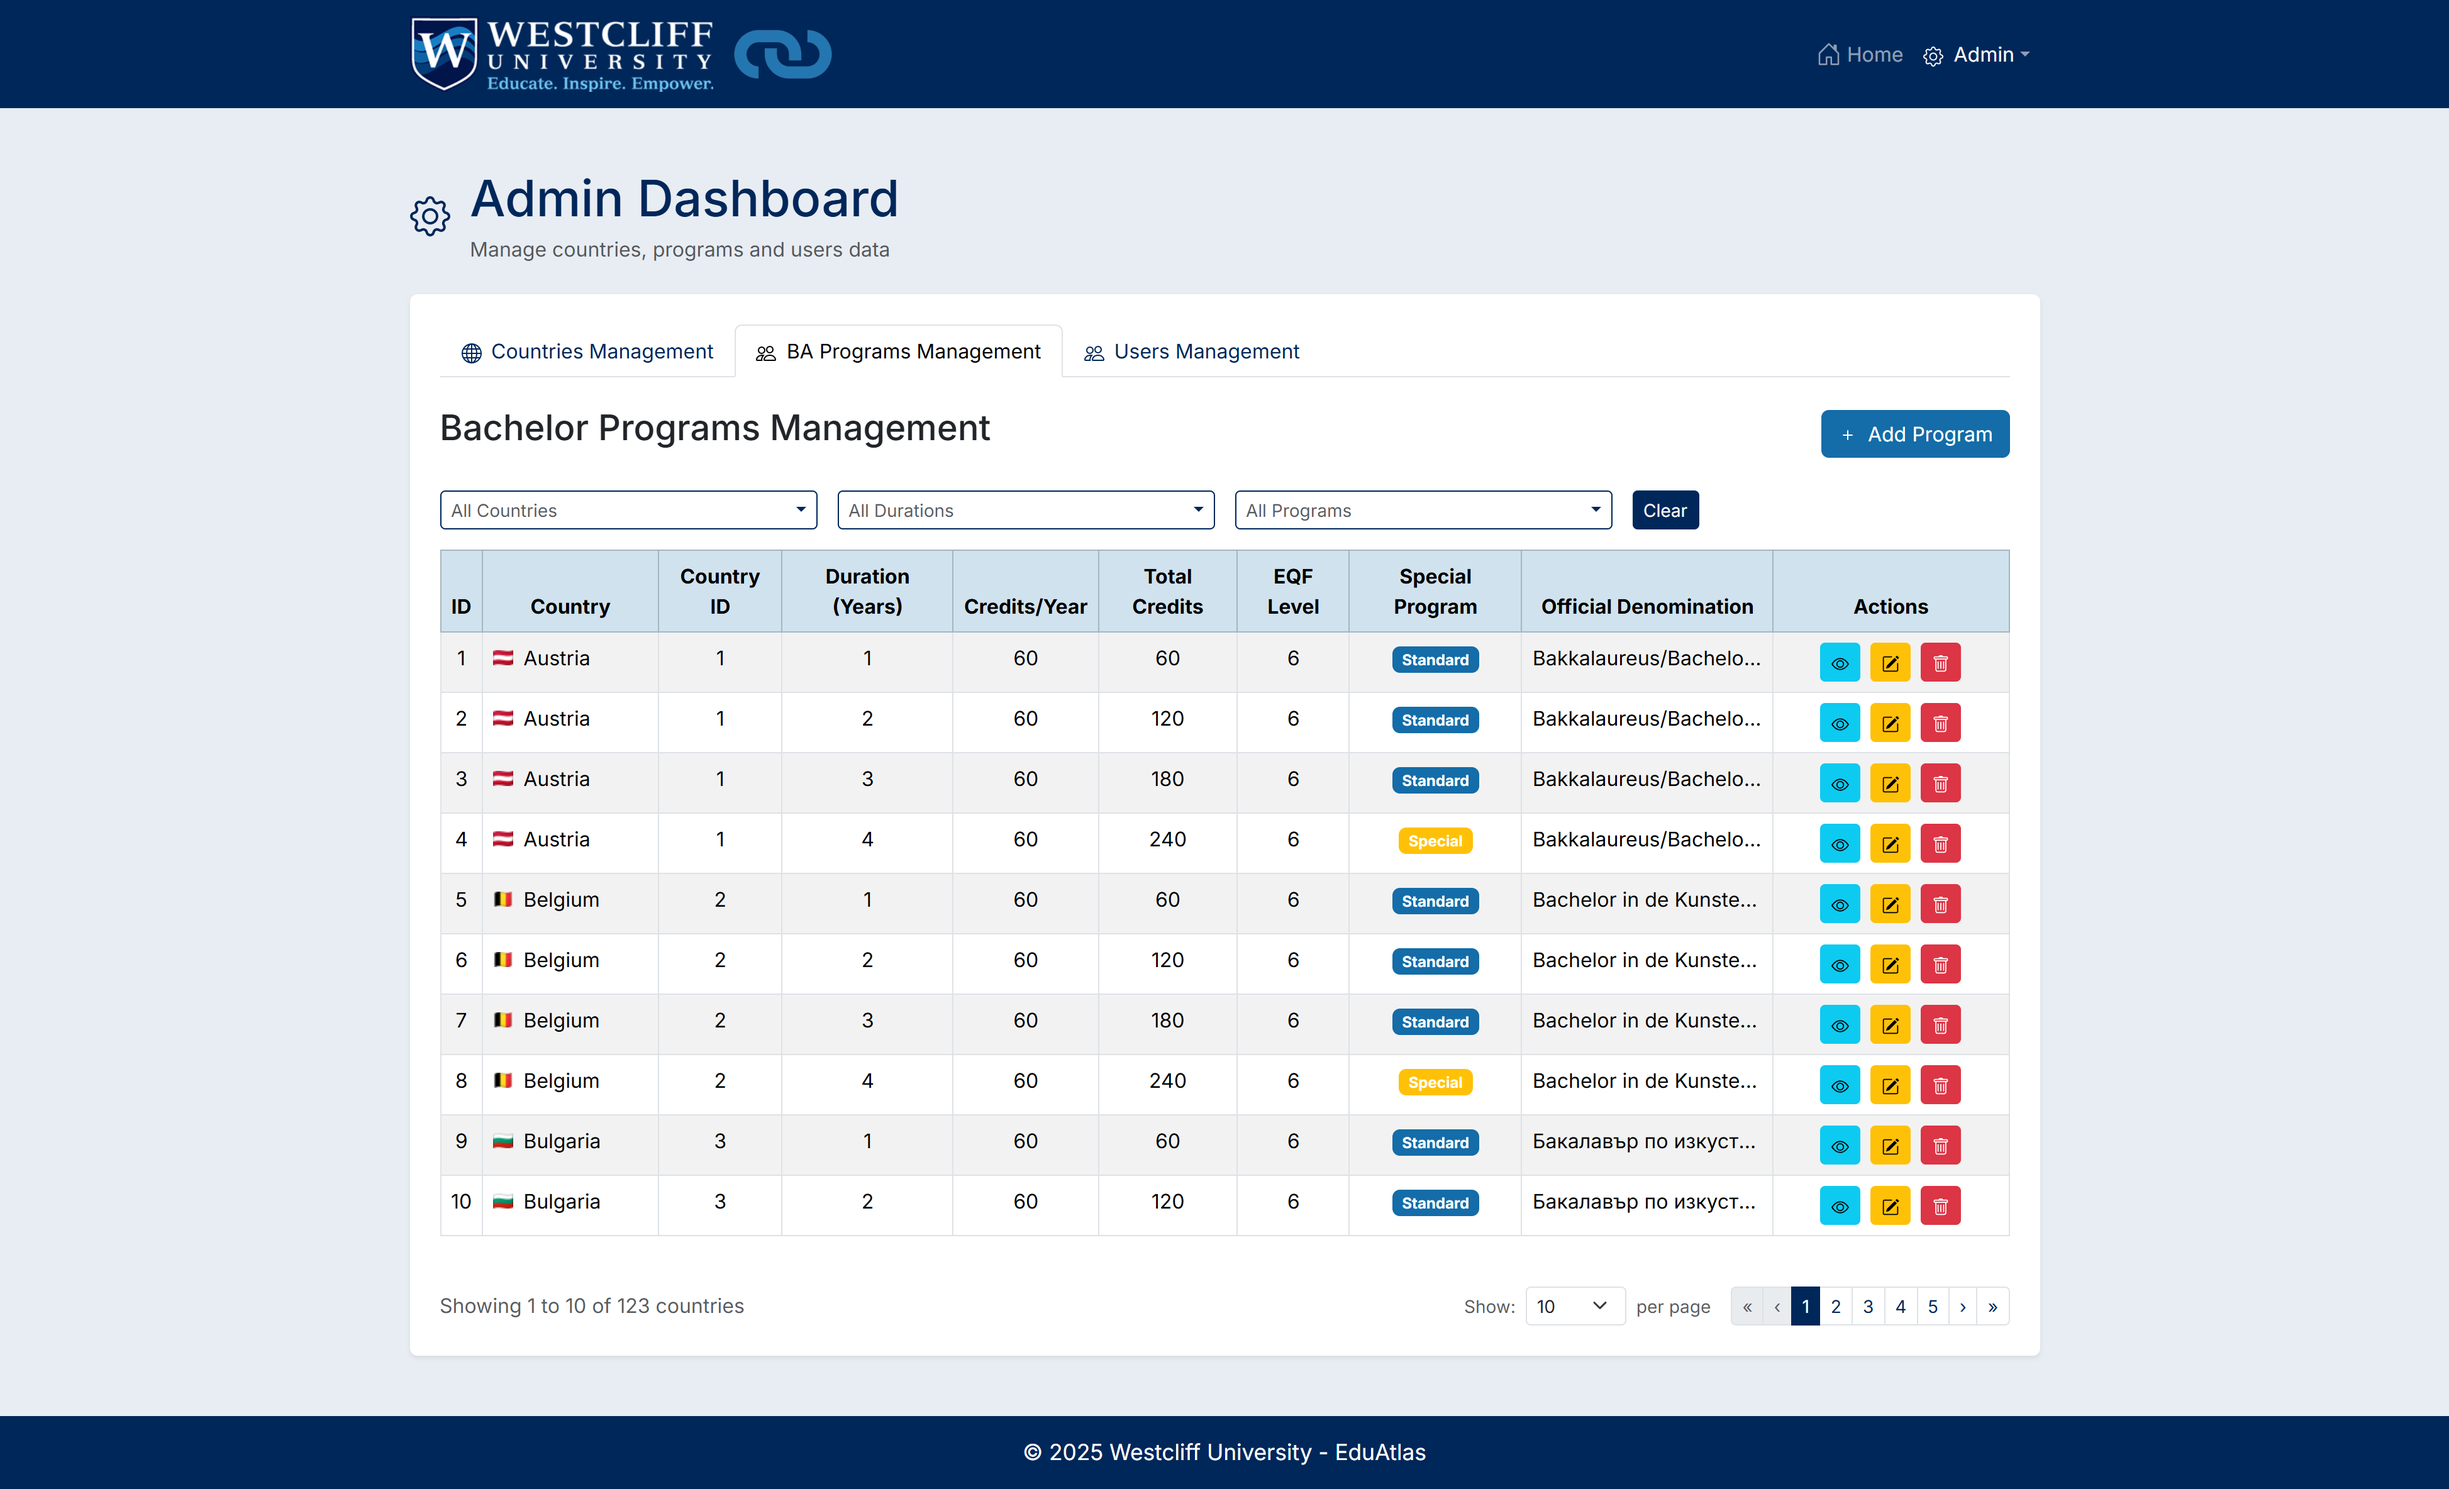
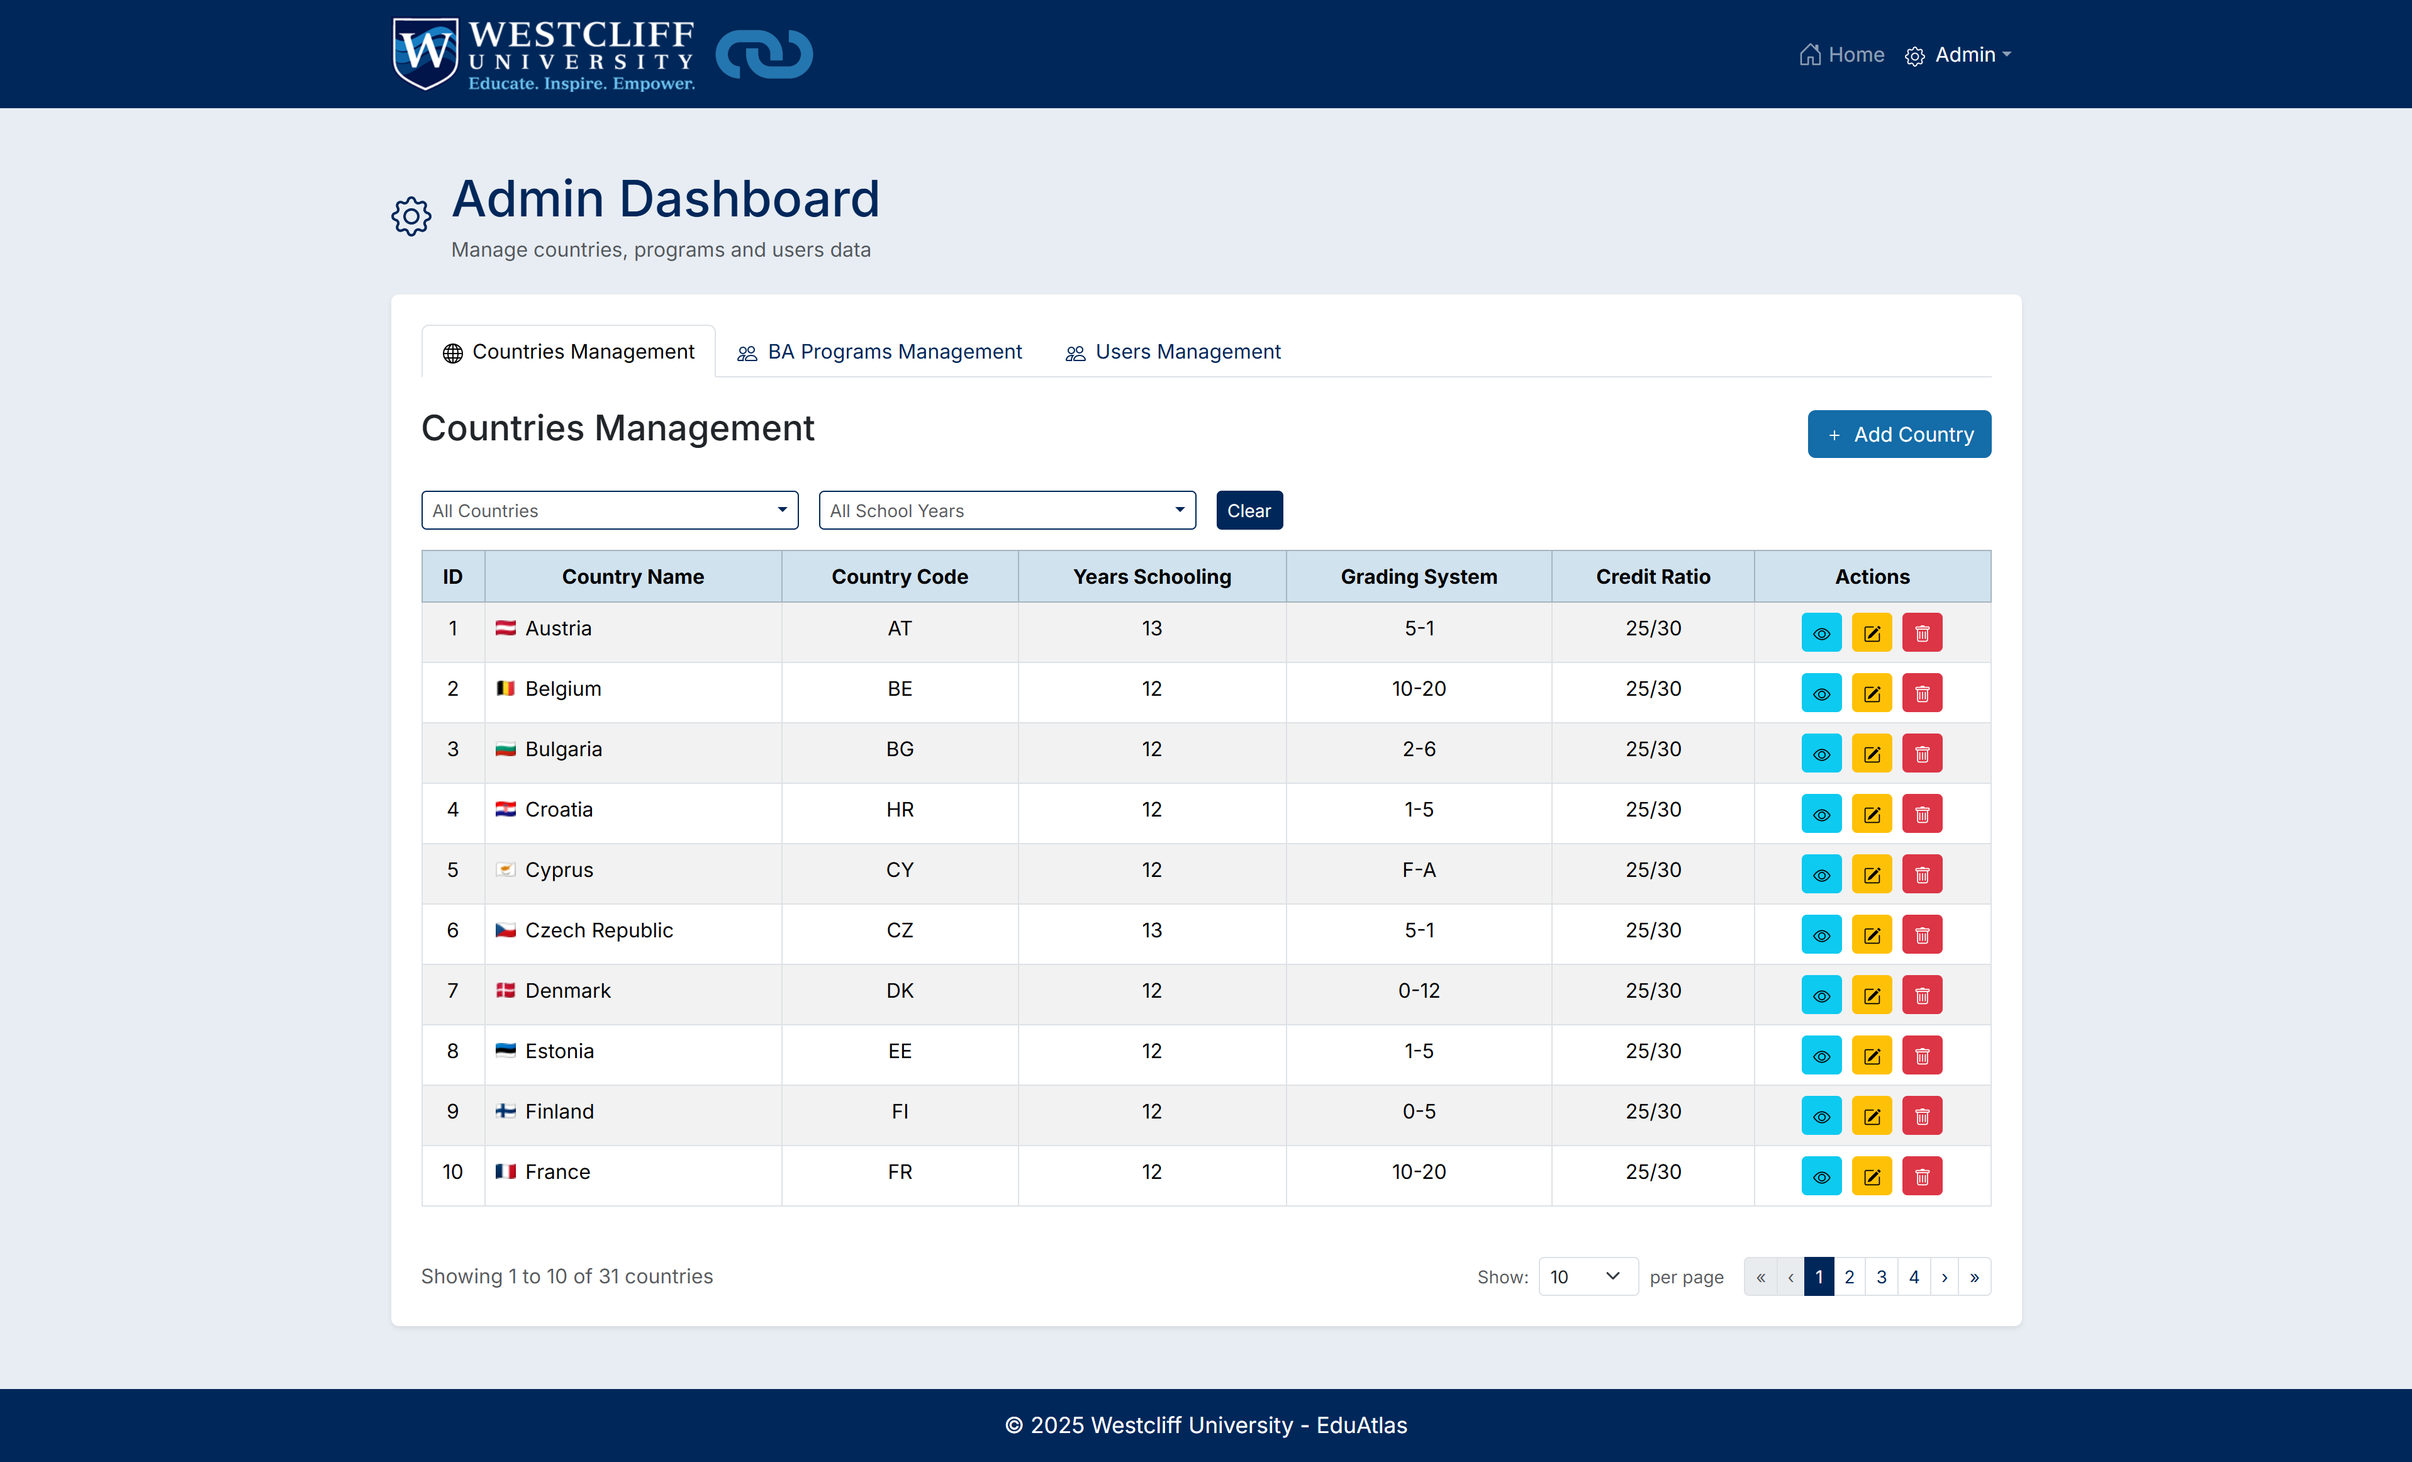
docs: update README and screenshots for v3.0 release
- Fix Spring Boot version badge and tech stack section (3.5.8)
- Add Bucket4j, JUnit/Mockito, Trello to tech stack
- Expand Key Features: shareable URLs, grade comparison, rate limiting, Swagger auth
- Add grading scale comparison screenshot (screenshot-grading.png)
- Refresh all existing screenshots to current UI

diff --git a/README.md b/README.md
@@ -1,6 +1,6 @@
 # 🎓 EduAtlas - Degree Affinity Report System
 
-![Java](https://img.shields.io/badge/Java-21-orange?style=flat&logo=openjdk) ![Spring Boot](https://img.shields.io/badge/Spring_Boot-3.5.5-green?style=flat&logo=springboot) ![React](https://img.shields.io/badge/React-19-blue?style=flat&logo=react) ![Vite](https://img.shields.io/badge/Vite-7-646CFF?style=flat&logo=vite&logoColor=white) ![PostgreSQL](https://img.shields.io/badge/PostgreSQL-17-336791?style=flat&logo=postgresql) ![Bootstrap](https://img.shields.io/badge/Bootstrap-5-7952B3?style=flat&logo=bootstrap&logoColor=white) ![Sass](https://img.shields.io/badge/Sass-1.70.0-CC6699?style=flat&logo=sass&logoColor=white) ![Swagger](https://img.shields.io/badge/Swagger-API_Docs-85EA2D?style=flat&logo=swagger&logoColor=black)
+![Java](https://img.shields.io/badge/Java-21-orange?style=flat&logo=openjdk) ![Spring Boot](https://img.shields.io/badge/Spring_Boot-3.5.8-green?style=flat&logo=springboot) ![React](https://img.shields.io/badge/React-19-blue?style=flat&logo=react) ![Vite](https://img.shields.io/badge/Vite-7-646CFF?style=flat&logo=vite&logoColor=white) ![PostgreSQL](https://img.shields.io/badge/PostgreSQL-17-336791?style=flat&logo=postgresql) ![Bootstrap](https://img.shields.io/badge/Bootstrap-5-7952B3?style=flat&logo=bootstrap&logoColor=white) ![Sass](https://img.shields.io/badge/Sass-1.70.0-CC6699?style=flat&logo=sass&logoColor=white) ![Swagger](https://img.shields.io/badge/Swagger-API_Docs-85EA2D?style=flat&logo=swagger&logoColor=black)
 
 The **EduAtlas Affinity Report System** is a Full Stack Capstone project developed for **Westcliff University**. It addresses a specific administrative challenge: comparing international **Bachelor's degree programs** to determine academic compatibility between different education systems.
 
@@ -35,16 +35,21 @@ _The system generates a detailed comparison table, calculates the affinity score
 
 ![Affinity Report](frontend/public/assets/images/screenshot-report.png)
 
+**3. Grading Scale Comparison**
+_Side-by-side ECTS grade band table (A / B / C / D-E / F) for both selected countries. Accessible from the Grading System row of the affinity report._
+
+![Grading Scale Comparison](frontend/public/assets/images/screenshot-grading.png)
+
 ---
 
 ### 🔐 Admin & Management Flow
 
-**3. Secure Authentication**
+**4. Secure Authentication**
 _A dedicated `/login` portal protects the administrative area using JWT credentials._
 
 ![Login Screen](frontend/public/assets/images/screenshot-login.png)
 
-**4. Admin Backoffice**
+**5. Admin Backoffice**
 _Authenticated admins can browse, search, edit, or delete countries data, bachelor programs data and users data via a comprehensive dashboard._
 
 ![Admin Dashboard](frontend/public/assets/images/screenshot-admin.png)
@@ -66,9 +71,13 @@ The source data was provided as a complex, non-standard Excel matrix. **Instead 
 ## ✨ Key Features
 
 - **Comparison Algorithm:** Calculates compatibility percentages based on Duration, Credits, EQF Level, and Credit Ratios.
+- **Shareable Reports:** Affinity report URL encodes country codes as query params (`?c1=IT&c2=IE`) — paste the URL to reload the exact report.
+- **Grade Comparison Page:** Side-by-side ECTS grade band table for both countries, linked from the report.
 - **Export Tools:** Generate PDF reports using `html2canvas` and `jspdf`.
 - **Secure Admin API:** Full CRUD capabilities protected by Spring Security & JWT.
-- **Feedback System:** Integrated user reporting tool.
+- **Rate Limiting:** Feedback endpoint rate-limited with Bucket4j (3 req/min per IP, 100 req/day globally) to protect the Mailgun free tier.
+- **Feedback System:** Integrated user reporting tool with live Retry-After countdown on 429 responses.
+- **API Documentation:** Swagger UI with bearer token authorization, grouped public/admin specs.
 
 ---
 
@@ -87,16 +96,19 @@ The source data was provided as a complex, non-standard Excel matrix. **Instead 
 
 ### Backend
 
-- **Framework:** Java 21, Spring Boot 3.2
+- **Framework:** Java 21, Spring Boot 3.5.8
 - **Security:** Spring Security, JWT, CORS
 - **Database:** PostgreSQL (Hosted on Koyeb)
-- **Documentation:** OpenAPI 3 (Swagger UI)
+- **Rate Limiting:** Bucket4j 8.10.1
+- **Documentation:** OpenAPI 3 / springdoc-openapi (Swagger UI)
+- **Testing:** JUnit 5, Mockito
 - **Deploy:** Koyeb (Cloud Native Buildpacks)
 
 ### Tools
 
-- **Testing:** Postman
+- **API Testing:** Postman
 - **Version Control:** Git / GitHub
+- **Project Management:** Trello
 
 ---
 
